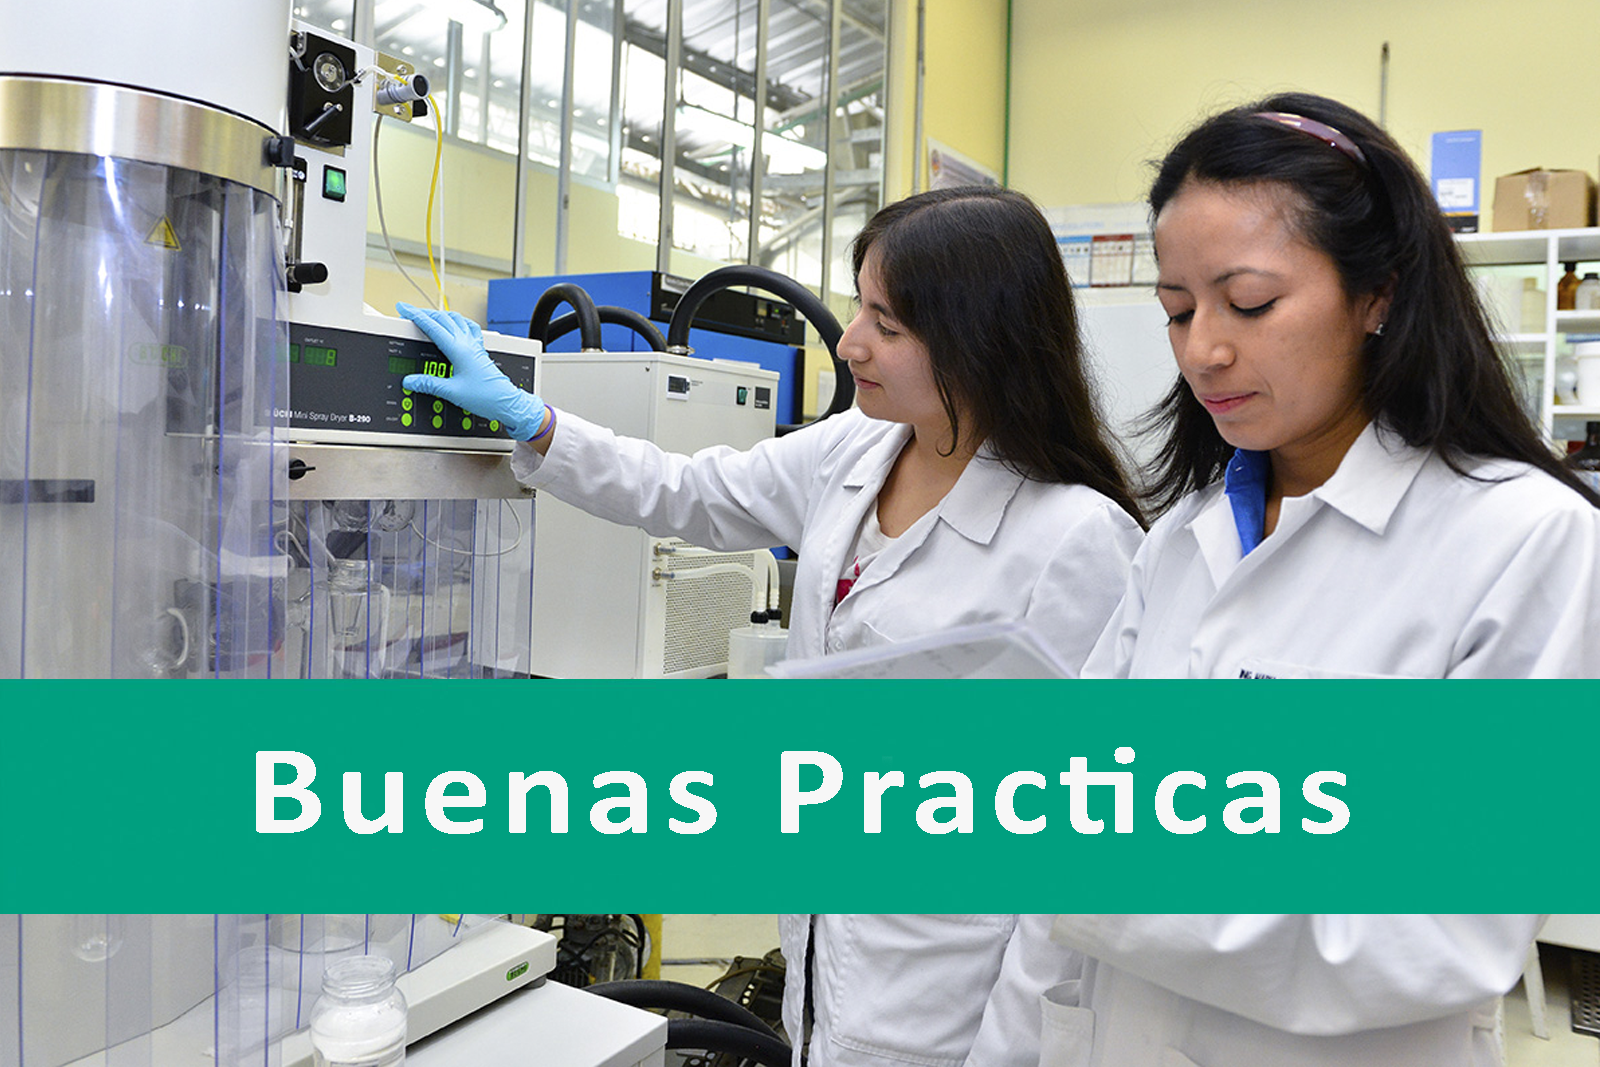
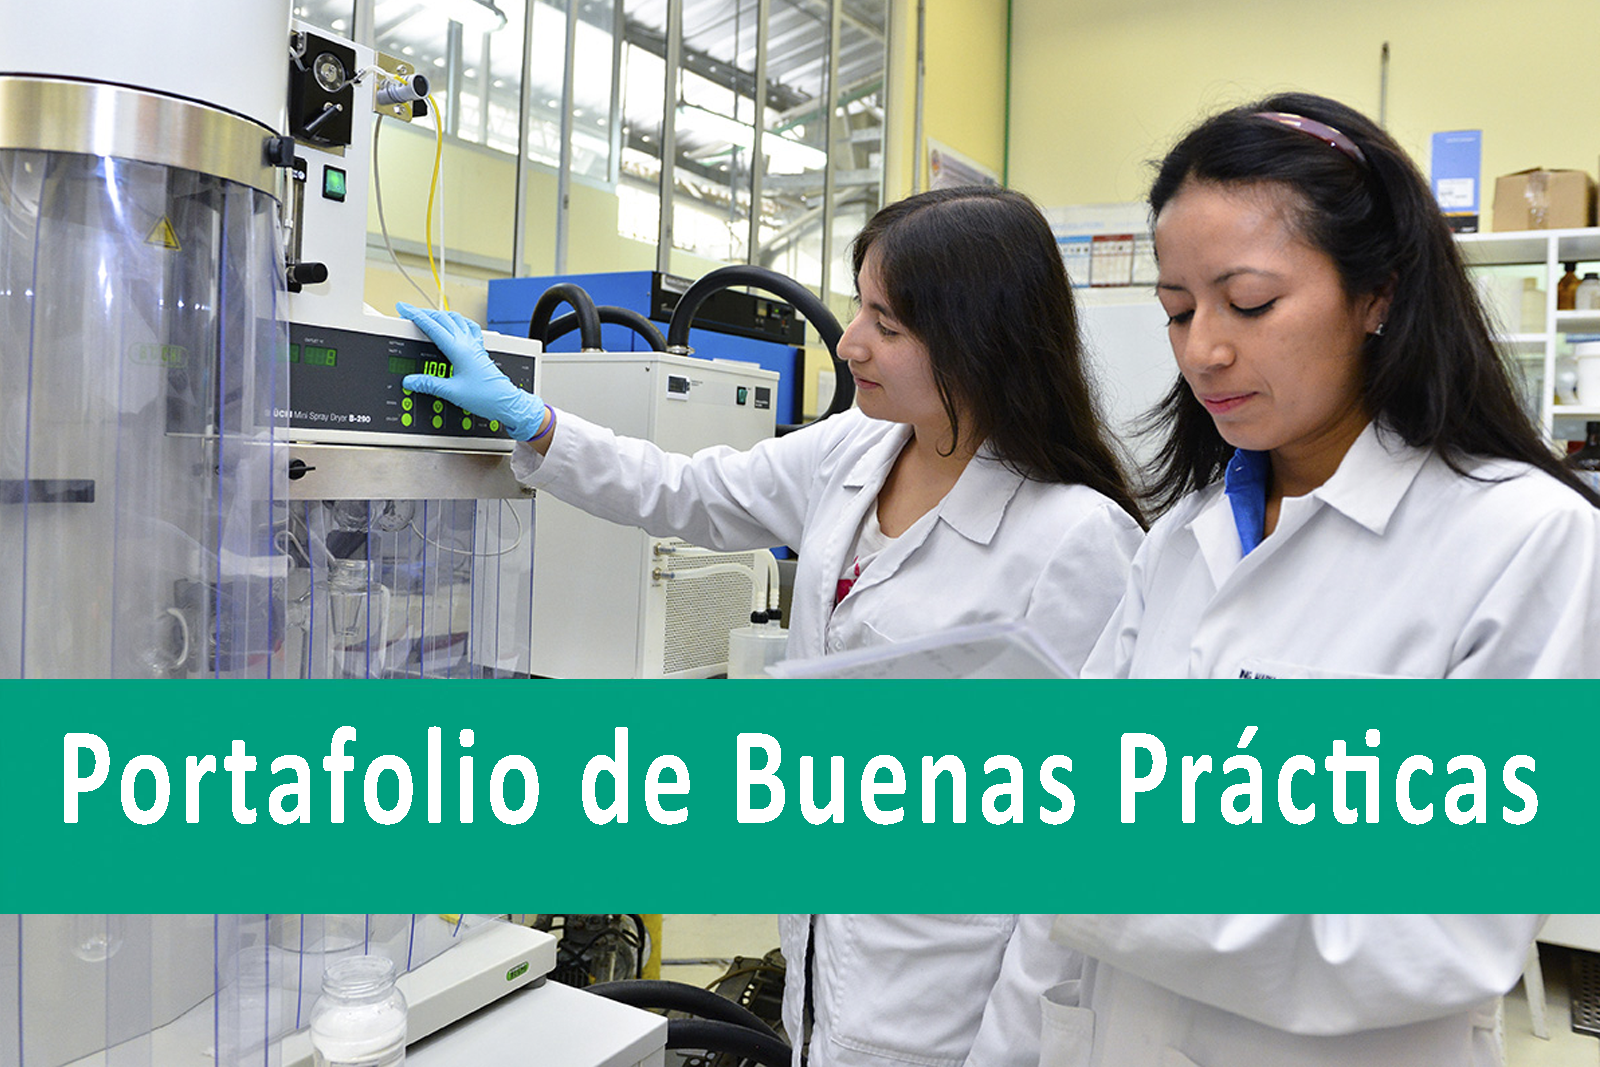
update buenas-practicas.png and nuxt-link of navbar

Changed region(s): [[0.0312, 0.6804, 0.9688, 0.8041]]

diff --git a/components/Navbar.vue b/components/Navbar.vue
@@ -19,9 +19,9 @@
             <ul>
               <nuxt-link :to="{name: 'innovacion-docente-ayudante-catedra'}">Ayudante de Catedra</nuxt-link>
               <nuxt-link :to="{name: 'innovacion-docente-convocatorias-index'}">Convocatorias</nuxt-link>
+              <nuxt-link :to="{name: 'innovacion-docente-buenas-practicas-index'}">Portafolio de Buenas Prácticas</nuxt-link>
               <nuxt-link :to="{name: 'innovacion-docente-proyectos-actuales'}">Proyectos Actuales</nuxt-link>
               <nuxt-link :to="{name: 'innovacion-docente-proyecto-mentores'}">Proyecto Mentores</nuxt-link>
-              <nuxt-link :to="{name: 'innovacion-docente-buenas-practicas-index'}">Repositorio de Buenas Prácticas</nuxt-link>
               <a target="_blank"
                  rel="noopener"
                  href="https://retos.utpl.edu.ec/">Retos</a>
